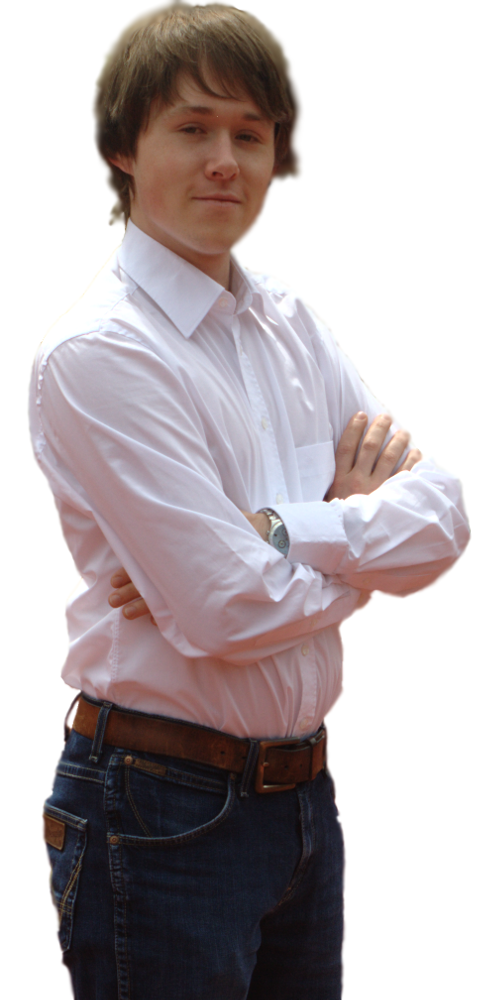
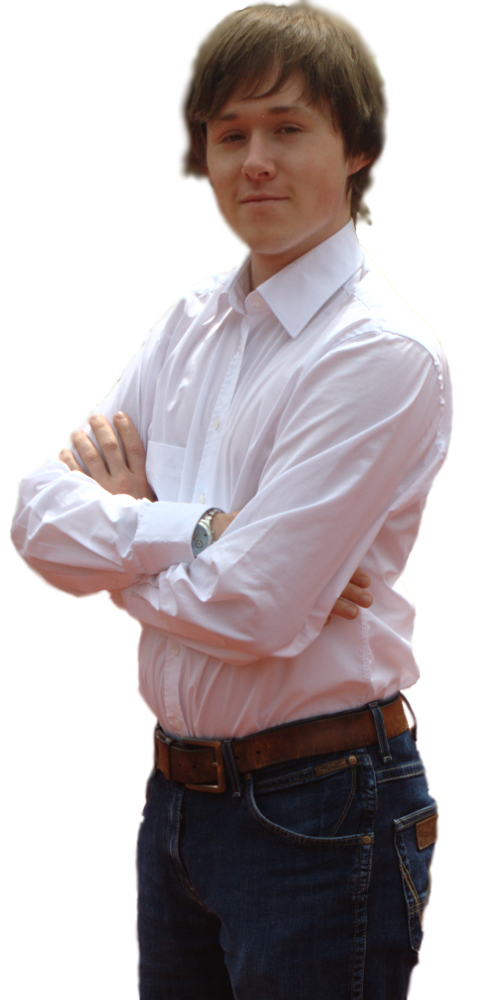
reduced the different formats to only two

diff --git a/index.html b/index.html
@@ -6,11 +6,10 @@
 	<link rel="stylesheet" type="text/css" href="css/basic.css"/>
 	<link rel="stylesheet" type="text/css" href="css/navigation_common.css"/>
 	<link rel='stylesheet' type="text/css" href='css/navigation_small.css' media="screen and (max-width: 664px)"/>
-	<link rel='stylesheet' type="text/css" href='css/navigation_664px.css' media="screen and (min-width: 665px) and (max-width: 1328px)"/>
-	<link rel='stylesheet' type="text/css" href='css/navigation_1328px.css' media="screen and (min-width: 1329px)"/>
+	<link rel='stylesheet' type="text/css" href='css/navigation_big.css' media="screen and (min-width: 665px)"/>
 	<link rel="stylesheet" type="text/css" href="css/content_common.css"/>
-	<link rel='stylesheet' type="text/css" href='css/content_medium.css' media="screen and (max-width: 1328px)"/>
-	<link rel='stylesheet' type="text/css" href='css/content_big.css' media="screen and (min-width: 1329px)"/>
+	<link rel='stylesheet' type="text/css" href='css/content_small.css' media="screen and (max-width: 664px)"/>
+	<link rel='stylesheet' type="text/css" href='css/content_big.css' media="screen and (min-width: 665px)"/>
 	<title>Benedikt Schmidt</title>
 </head>
 
@@ -29,10 +28,6 @@
 		<li><a href="#leisure">Freizeit</a></li>
 		<li><a href="#contact">Kontakt</a></li>
 	</ul>
-</div>
-
-<div class="left">
-	<img src="pic/benedikt_schmidt.png" width="100%" class="left">
 </div>
 
 <div class="content">
@@ -126,6 +121,10 @@
 	Mitterweg 63<br>
 	A-6020 Innsbruck<br>
 	benediktibk@aon.at<br></p>
+</div>
+
+<div class="side">
+	<img src="pic/benedikt_schmidt.png" width="100%" class="side">
 </div>
 
 </body>

diff --git a/css/content_common.css b/css/content_common.css
@@ -62,11 +62,11 @@ p#contactData
 	height: 100%;
 }
 
-div.left
+div.side
 {
 	position: fixed;
 	top: 96px;
-	left: 0px;
+	right: 0px;
 	height: 100%;
 	width: calc((100% - 800px)/2);
 }

diff --git a/css/content_small.css b/css/content_small.css
@@ -27,7 +27,7 @@ td
 	font-size: 2em;
 }
 
-img.left
+img.side
 {
 	display: none;
 }
